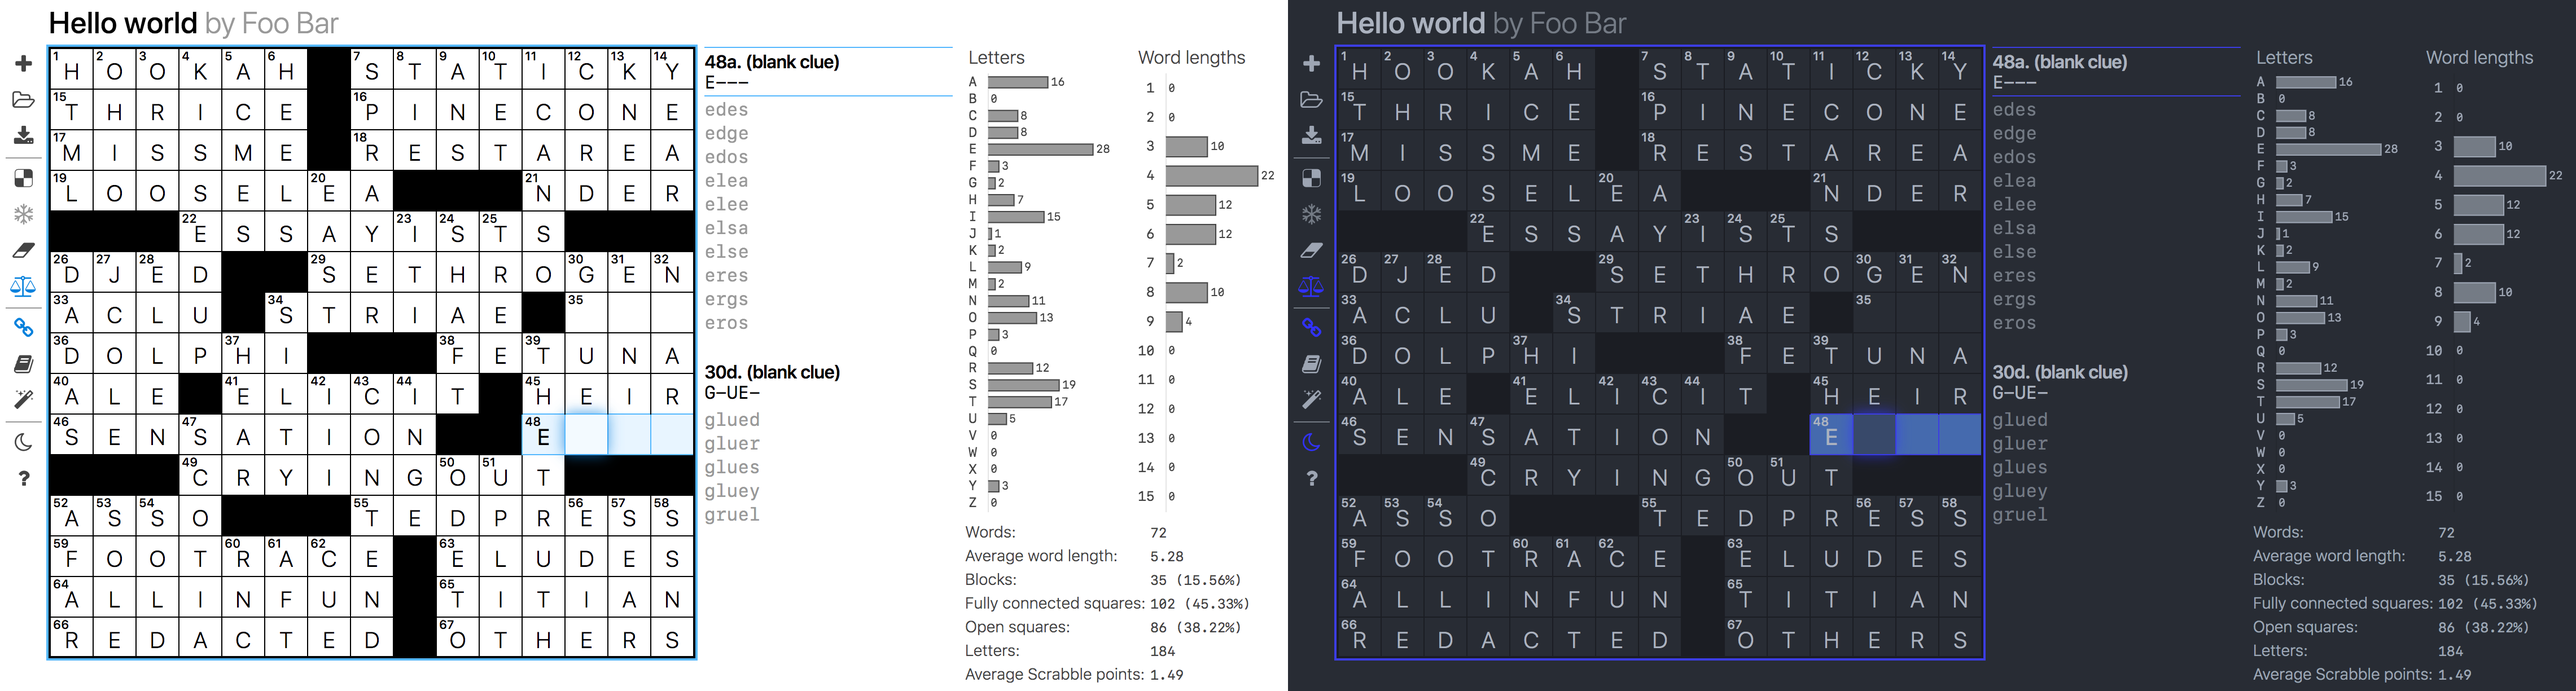
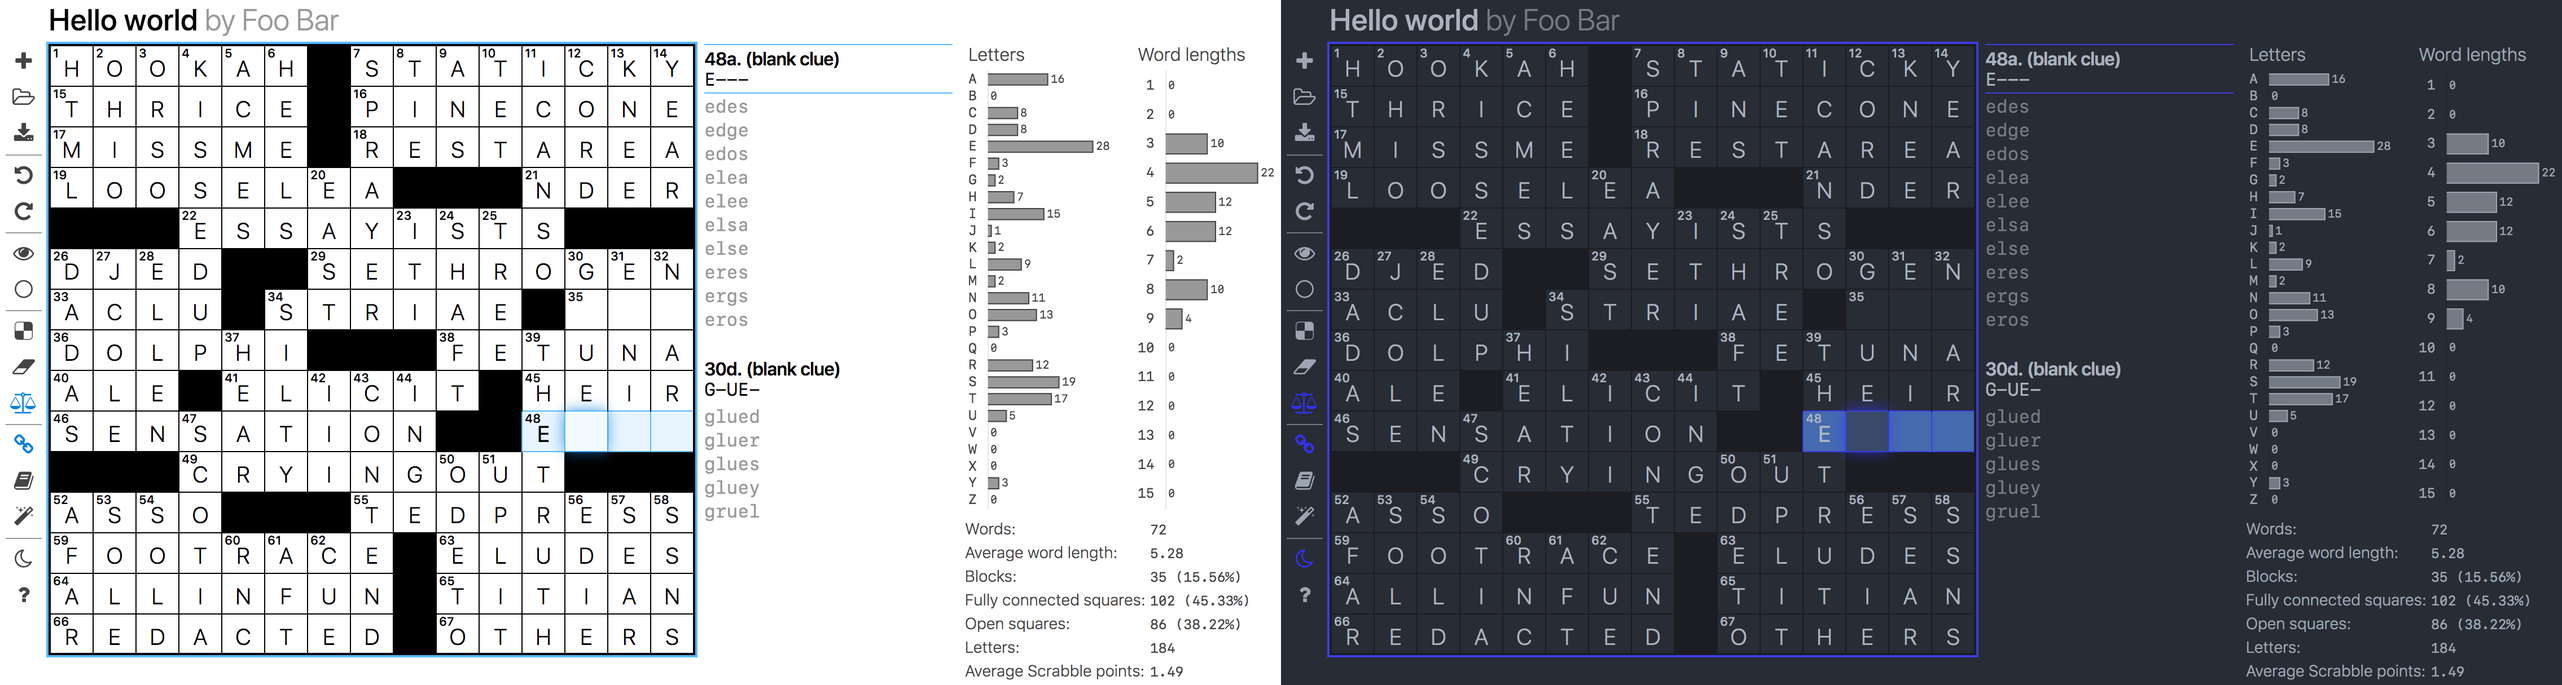
shade support

diff --git a/files.js b/files.js
@@ -105,8 +105,6 @@ class PuzReader {
     // console.log(extras);
     if ("GEXT" in extras) {
       json.circles = extras.GEXT.map(c => c == 128);
-    } else {
-      json.circles = new Array(grid.length).fill(0);
     }
     if ("RTBL" in extras && "GRBS" in extras) {
       let rebusTable = {};
@@ -317,6 +315,19 @@ class PuzWriter {
       let rtblCksum = this.checksumRegion(rtblStart, rtblLength, 0);
       this.setShort(rtblStart - 2, rtblCksum);
     }
+    if (json.circles) {
+      this.writeExtraTitle("GEXT");
+      this.pad(4);
+      let gextStart = this.buf.length;
+      for (let c of json.circles) {
+        this.buf.push(c ? 128 : 0);
+      }
+      let gextLength = this.buf.length - gextStart;
+      this.setShort(gextStart - 4, gextLength);
+      let gextCksum = this.checksumRegion(gextStart, gextLength, 0);
+      this.setShort(gextStart - 2, gextCksum);
+      this.buf.push(0);
+    }
   }
 
   generateRTBL(rebusList) {
@@ -408,6 +419,13 @@ function openFile(e) {
   }
 }
 
+// in case imported json clues use html entities, as with xwordinfo
+function decodeHtml(html) {
+  let txt = document.createElement("textarea");
+  txt.innerHTML = html;
+  return txt.value;
+}
+
 function convertJSONToPuzzle(puz) {
   createNewPuzzle(puz.size.rows, puz.size.cols);
   // Update puzzle title, author
@@ -429,9 +447,9 @@ function convertJSONToPuzzle(puz) {
         fillDiv.classList.add("rebus");
       }
       if (puz.circles && puz.circles[k] == 1) {
-        let circle = document.createElement("DIV");
-        circle.setAttribute("class", "circle");
-        td.appendChild(circle);
+        let div = document.createElement("DIV");
+        div.setAttribute("class", puz.shadecircles ? "shade" : "circle");
+        td.appendChild(div);
       }
     }
   }
@@ -448,12 +466,12 @@ function convertJSONToPuzzle(puz) {
         const label = activeCell.querySelector(".label").innerHTML + ".";
         for (let k = 0; k < puz.clues.across.length; k++) {
           if (label == puz.clues.across[k].slice(0, label.length)) {
-            xw.clues[[i, j, ACROSS]] = puz.clues.across[k].slice(label.length).trim();
+            xw.clues[[i, j, ACROSS]] = decodeHtml(puz.clues.across[k].slice(label.length).trim());
           }
         }
         for (let l = 0; l < puz.clues.down.length; l++) {
           if (label == puz.clues.down[l].slice(0, label.length)) {
-            xw.clues[[i, j, DOWN]] = puz.clues.down[l].slice(label.length).trim();
+            xw.clues[[i, j, DOWN]] = decodeHtml(puz.clues.down[l].slice(label.length).trim());
           }
         }
       }
@@ -511,14 +529,24 @@ function convertPuzzleToJSON() {
   }
   // Read grid
   puz.grid = [];
-  puz.circles = [];
+  let circles = [];
   for (let i = 0; i < xw.rows; i++) {
     for (let j = 0; j < xw.cols; j++) {
       puz.grid.push(xw.fill[i][j]);
       let square = getGridSquare(i, j);
-      puz.circles.push(square.querySelector(".circle") ? 1 : 0);
+      if (square.querySelector(".circle")) {
+        circles.push(1);
+        //xwordinfo json key, true if shades instead of circles
+        puz.shadecircles = false;
+      } else if (square.querySelector(".shade")) {
+        circles.push(1);
+        puz.shadecircles = true;
+      } else {
+        circles.push(0);
+      }
     }
   }
+  if ("shadecircles" in puz) puz.circles = circles;
   return puz;
 }
 
@@ -635,10 +663,14 @@ function layoutPDFGrid(doc, format, isFilled) {
   doc.setLineWidth(format.innerLineWidth);
   for (let i = 0; i < xw.rows; i++) {
     for (let j = 0; j < xw.cols; j++) {
-      doc.setFillColor(xw.fill[i][j] == BLOCK ? 0 : 255);
+      const cell = getGridSquare(i, j);
+      if (cell.querySelector(".shade")) {
+        doc.setFillColor(190);
+      } else {
+        doc.setFillColor(xw.fill[i][j] == BLOCK ? 0 : 255);
+      }
       doc.rect(format.gridOrigin.x + (j * format.squareSize),
                format.gridOrigin.y + (i * format.squareSize), format.squareSize, format.squareSize, 'FD');
-      const cell = getGridSquare(i, j);
       if (cell.querySelector(".circle")) {
         doc.circle(format.gridOrigin.x + ((j + 0.5) * format.squareSize),
                    format.gridOrigin.y + ((i + 0.5) * format.squareSize), format.squareSize/2);

diff --git a/cross.js b/cross.js
@@ -43,6 +43,7 @@ const DEFAULT_NOTIFICATION_LIFETIME = 10; // in seconds
 
 let history = [];
 let isSymmetrical = true;
+let isCircleDefault = true;
 let isStrictMatching = false;
 let isDarkMode = false;
 let grid;
@@ -363,14 +364,18 @@ class Action {
         }
         break;
       case "toggleCircle":
-        let cell = getGridSquare(state.row, state.col);
-        if (cell.querySelector(".circle")) {
-          cell.removeChild(cell.querySelector(".circle"));
+        let cell = getGridSquare(current.row, current.col);
+        let type = isCircleDefault ? "circle" : "shade";
+        if (cell.querySelector("." + type)) {
+          cell.removeChild(cell.querySelector("." + type));
         } else {
-          let circle = document.createElement("DIV");
-          circle.setAttribute("class", "circle");
-          cell.appendChild(circle);
+          let div = document.createElement("DIV");
+          div.setAttribute("class", type);
+          cell.appendChild(div);
         }
+        break;
+      case "switchCirclesShades":
+        switchCirclesShades();
         break;
       case "autoFill":
         for (let i = 0; i < xw.rows; i++) {
@@ -535,7 +540,7 @@ function keyboardHandler(e) {
     enterRebus(e);
   }
   if (e.key == BACKTICK) {
-    toggleCircle();
+    toggleCircle(isCircleDefault);
   }
   if (e.key == ENTER) {
       current.direction = (current.direction == ACROSS) ? DOWN : ACROSS;
@@ -1228,21 +1233,27 @@ function enterRebus(e) {
   grid.focus();
 }
 
-function toggleCircle() {
-  let activeCell = getGridSquare(current.row, current.col);
-  if (activeCell.querySelector(".circle")) {
-    activeCell.removeChild(activeCell.querySelector(".circle"));
-  } else {
-    let circle = document.createElement("DIV");
-    circle.setAttribute("class", "circle");
-    activeCell.appendChild(circle);
-  }
-  updateUI();
+function toggleCircle(useCircle = true) {
   let state = {
     "row": current.row,
     "col": current.col,
     "direction": current.direction
   };
+  if (useCircle != isCircleDefault) {
+    switchCirclesShades();
+    actionTimeline.record(new Action("switchCirclesShades", state));
+    return;
+  }
+  let activeCell = getGridSquare(current.row, current.col);
+  let type = isCircleDefault ? "circle" : "shade";
+  if (activeCell.querySelector("." + type)) {
+    activeCell.removeChild(activeCell.querySelector("." + type));
+  } else {
+    let div = document.createElement("DIV");
+    div.setAttribute("class", type);
+    activeCell.appendChild(div);
+  }
+  updateUI();
   actionTimeline.record(new Action("toggleCircle", state));
   if (current.direction == ACROSS) {
     e = new KeyboardEvent("keydown", {"key": ARROW_RIGHT});
@@ -1251,6 +1262,32 @@ function toggleCircle() {
   }
   keyboardHandler(e);
   grid.focus();
+}
+
+function toggleShade() {
+  toggleCircle(false);
+}
+
+function switchCirclesShades() {
+  isCircleDefault = !isCircleDefault;
+  for (let i = 0; i < xw.rows; i++) {
+    for (let j = 0; j < xw.cols; j++) {
+      let cell = getGridSquare(i, j);
+      let circle = cell.querySelector(".circle");
+      let shade = cell.querySelector(".shade");
+      if (circle) {
+        let newShade = document.createElement("DIV");
+        newShade.setAttribute("class", "shade");
+        cell.appendChild(newShade);
+        cell.removeChild(circle);
+      } else if (shade) {
+        let newCircle = document.createElement("DIV");
+        newCircle.setAttribute("class", "circle");
+        cell.appendChild(newCircle);
+        cell.removeChild(shade);
+      }
+    }
+  }
 }
 
 function undo() {

diff --git a/index.html b/index.html
@@ -86,7 +86,15 @@
       <button id="enter-rebus" type="submit" form="enter-rebus-form" data-tooltip="Enter rebus" onmouseenter="showMenu(event)">
         <i class="fa fa-eye fa-fw" aria-hidden="true"></i>
       </button>
-      <button id="add-circle" type="button" data-tooltip="Toggle circle" onmouseenter="showMenu(event)" onclick="toggleCircle()">
+      <div id="toggle-special-menu" class="menu hidden" onmouseleave="hideMenu(event)">
+        <button id="toggle-circle" class="default" type="button" data-tooltip="Toggle circle" onmouseup="setDefault(event)" onclick="toggleCircle(true)">
+          <i class="fa fa-circle-thin fa-fw" aria-hidden="true"></i>
+        </button>
+        <button id="toggle-shade" type="button" data-tooltip="Toggle shade" onmouseup="setDefault(event)" onclick="toggleCircle(false)">
+          <i class="fa fa-tint fa-fw" aria-hidden="true"></i>
+        </button>
+      </div>
+      <button id="toggle-special" type="button" data-tooltip="Toggle special" onmouseenter="showMenu(event)" onclick="doDefault(event)">
         <i class="fa fa-circle-thin fa-fw" aria-hidden="true"></i>
       </button>
     </div>
@@ -94,7 +102,7 @@
     <div class="divider"></div>
 
     <div class="section">
-      <button id="quick-layout" type="button" data-tooltip="Generate pattern" onclick="generatePattern()">
+      <button id="quick-layout" type="button" data-tooltip="Generate pattern" onmouseenter="showMenu(event)" onclick="generatePattern()">
         <i class="fa fa-delicious fa-fw" aria-hidden="true"></i>
       </button>
       <button id="toggle-freeze-layout" type="button" data-tooltip="Freeze pattern" data-state="off" class="hidden">
@@ -195,7 +203,7 @@
         <tr> <td>Toggle block</td> <td><kbd>.</kbd></td> </tr>
         <tr> <td>Switch direction</td> <td><kbd>Enter</kbd></td> </tr>
         <tr> <td>Enter rebus</td> <td><kbd>Esc</kbd></td> </tr>
-        <tr> <td>Toggle circle</td> <td><kbd>`</kbd></td> </tr>
+        <tr> <td>Toggle circle/shade</td> <td><kbd>`</kbd></td> </tr>
       </table>
     </div>
     <div id="credits">

diff --git a/style.css b/style.css
@@ -4,6 +4,7 @@
   --secondary-color: rgb(68, 68, 68);
   --tertiary-color: rgb(153, 153, 153);
   --quaternary-color: rgb(248, 248, 248);
+  --shade-color: rgb(190, 190, 190);
   --highlight-color: rgba(222, 241, 255, 0.7);
   --highlight-active-color: rgba(222, 241, 255, 0.5);
   --highlight-border-color: rgb(85, 184, 254);
@@ -28,6 +29,7 @@
   --secondary-color: rgb(157, 165, 179);
   --tertiary-color: rgb(116, 123, 133);
   --quaternary-color: rgb(75, 83, 99);
+  --shade-color: rgb(96, 103, 116);
   --highlight-color: rgba(89, 147, 255, 0.6);
   --highlight-active-color: rgba(90, 135, 220, 0.4);
   --highlight-border-color: rgb(61, 61, 227);
@@ -422,6 +424,10 @@ kbd {
   -webkit-box-shadow: 3px 3px 6px 0px var(--toolbar-shadow-color);
 }
 
+#toolbar #toggle-special-menu {
+  min-width: 130px;
+}
+
 #toolbar .menu h4 {
   margin: 0;
   padding: 0;
@@ -465,6 +471,10 @@ kbd {
   left: 110%;
   top: 0;
   white-space: nowrap;
+}
+
+#toolbar #toggle-special-menu button:after {
+  min-width: 90px;
 }
 
 #toolbar .menu button:hover:after {
@@ -588,6 +598,14 @@ kbd {
   left: -1px;
 }
 
+.shade {
+  background-color: var(--shade-color);
+  position: absolute;
+  top: 0px;
+  left: 0px;
+  z-index: -1;
+}
+
 @media (hover: hover) and (pointer: fine) {
   body {
     width: auto;
@@ -609,6 +627,10 @@ kbd {
     padding-top: 6px;
   }
   .circle {
+    width: 37px;
+    height: 35px;
+  }
+  .shade {
     width: 37px;
     height: 35px;
   }
@@ -665,6 +687,10 @@ kbd {
       font-size: 8px;
     }
     .circle {
+      width: 17px;
+      height: 16px;
+    }
+    .shade {
       width: 17px;
       height: 16px;
     }

diff --git a/README.md b/README.md
@@ -10,14 +10,14 @@ Phil helps you make crosswords, using client-side JavaScript.
 
 New to this fork:
 * [Bob Copeland's](https://github.com/bcopeland) JS auto filler
-* NYT Sunday grid (21×21) support
 * Custom grid sizes
+* NYT Sunday grid (21×21) PDF submissions
 * Strict matching mode (fill suggestions filtered by crossers' constraints)
 * Interactive stats
 * Dark mode
 * Mobile support
-* Rebus support
-* Circle support
+* Rebus
+* Circles and shades
 * Undo/redo
 
 TODO:
